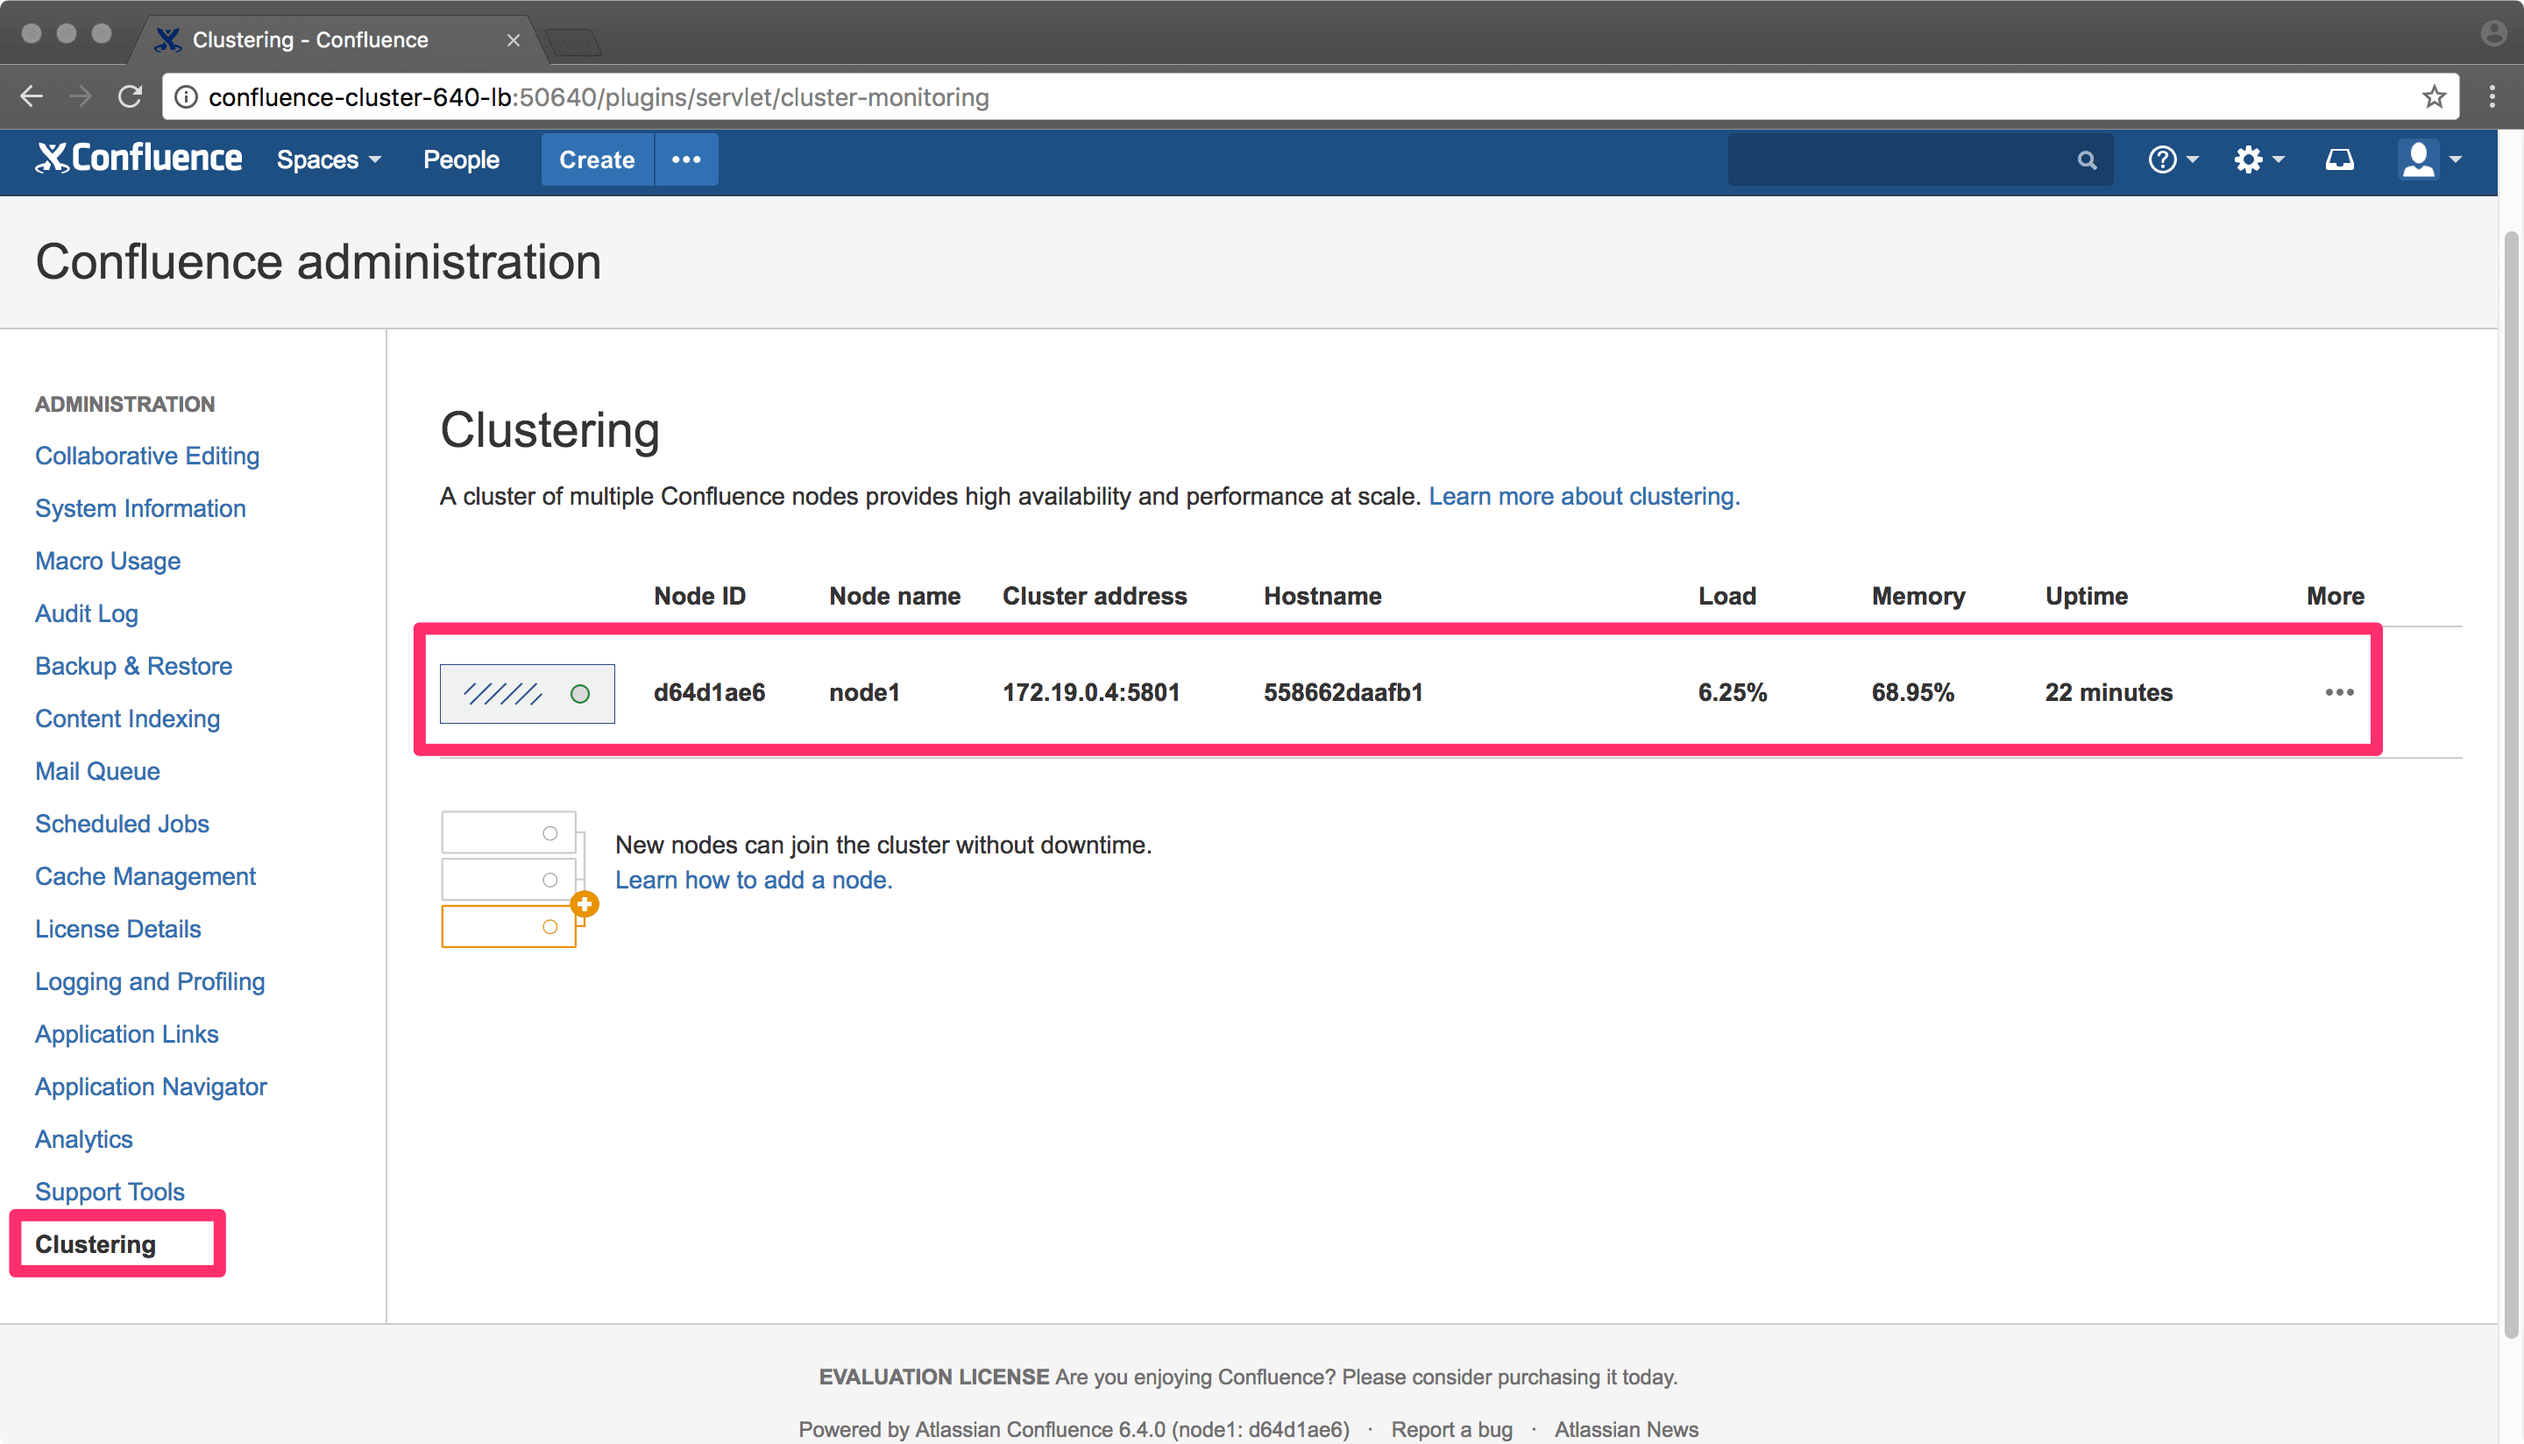
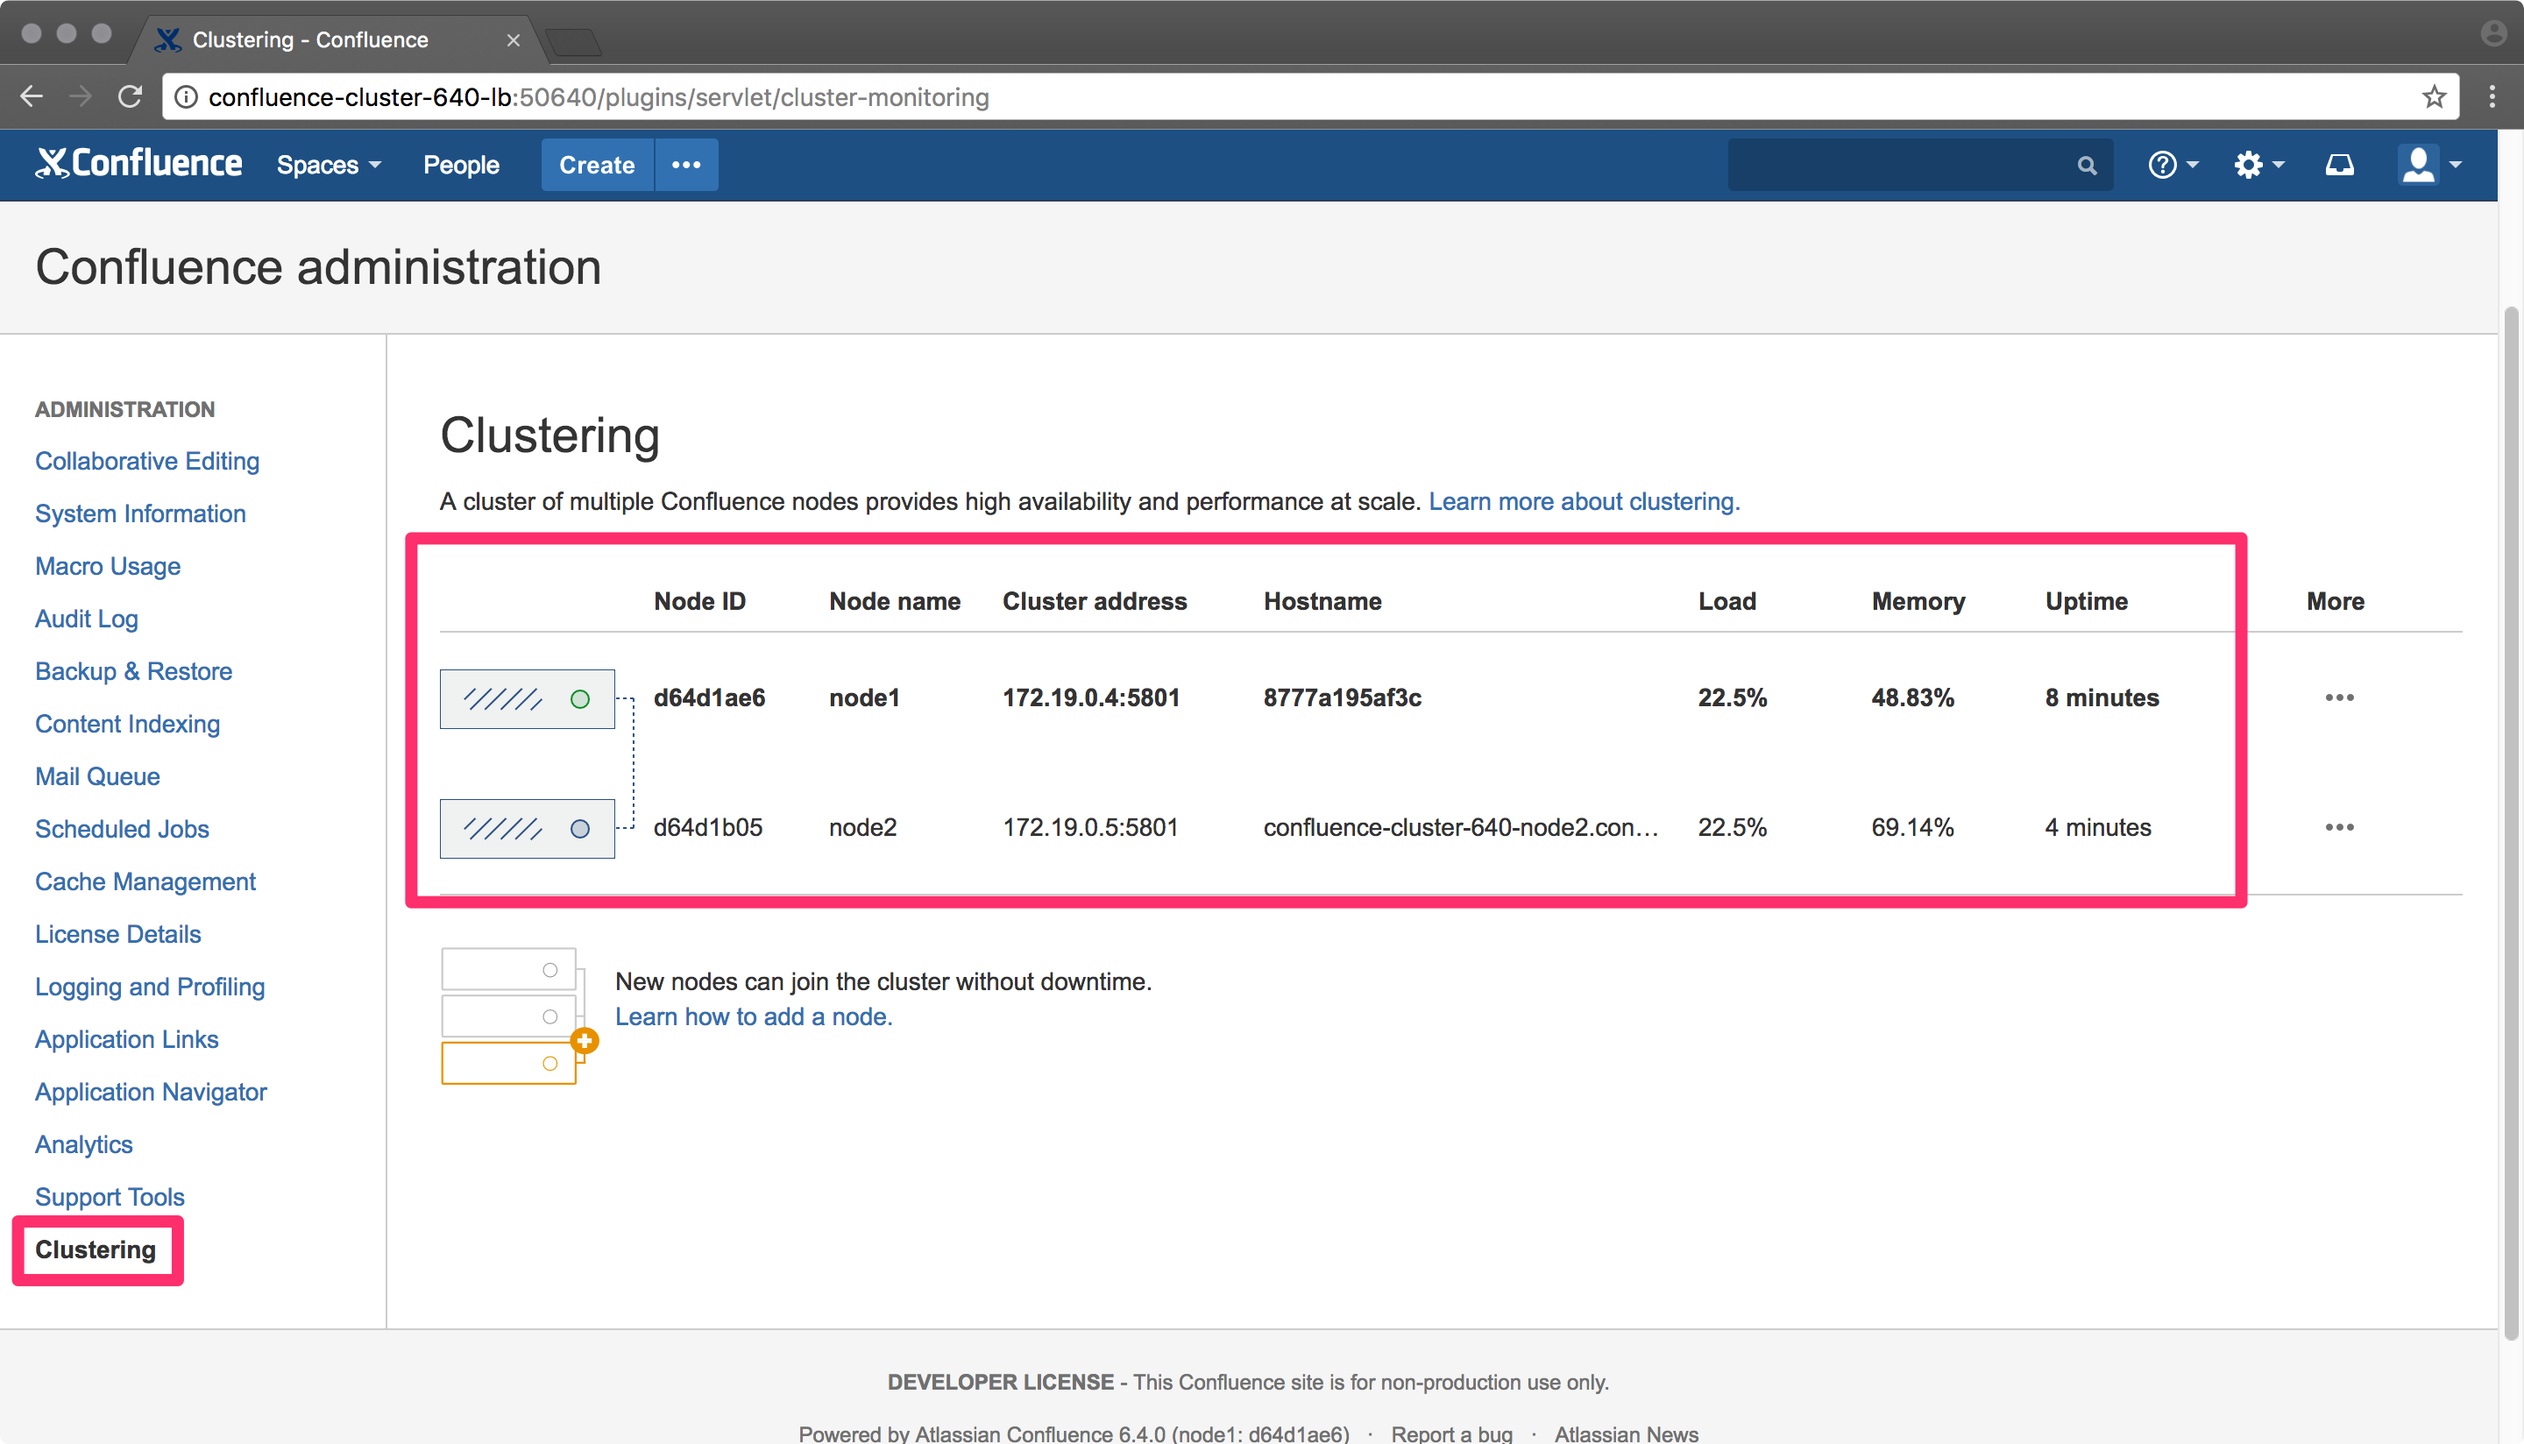
6.4.0 node2 working. 8GB RAM for docker minimum

diff --git a/6.4.0/README.md b/6.4.0/README.md
@@ -58,6 +58,7 @@ The basic setup is as follows:
  * Basic unix-tools like `wc`, `awk`, `curl`, `tr`, `head` and `bash` must be installed.
  * Bash 3 or 4 must be installed.
  * Latest Docker version must be installed.
+ * :bangbang: Give Docker at least 8GB of RAM
 
 -----
 
@@ -234,19 +235,17 @@ When you edit a page now, you will see that Collaborative editing is working.
 
 **(6) Scale Up Cluster - Add Confluence® Nodes**
 
-:bangbang: SCALE OUT CURRENTLY DOES NOT WORK :bangbang:
-
 Now that our first Confluence® Node is fully working we add additional nodes to our existing cluster.
 
 ```bash
 manage-confluence-cluster-6.4.0.sh --action update --scale 3
 ```
 
-This will **add two additional Confluence® Nodes** and reconfigure the loadbalancer automatically.
+This will **add two additional Confluence® Nodes** and reconfigure the loadbalancer automatically. The nodes are created, and the confluence-home directory from node1 is copied to the node2...n nodes.
 
 Wait again several minutes and now check if all nodes are active and alive under 'Administration' → 'Clustering'.
 
-<p align="center"><img width="80%" src="https://codeclou.github.io/docker-atlassian-confluence-data-center/SIX_FOUR_ZERO/post-config/41-cluster-one-node-running.png" /></p>
+<p align="center"><img width="80%" src="https://codeclou.github.io/docker-atlassian-confluence-data-center/SIX_FOUR_ZERO/post-config/41-cluster-one-node-running.png?v2" /></p>
 
 Run the **Healthcheck** under 'Administration' → 'Support Tools'.
 
